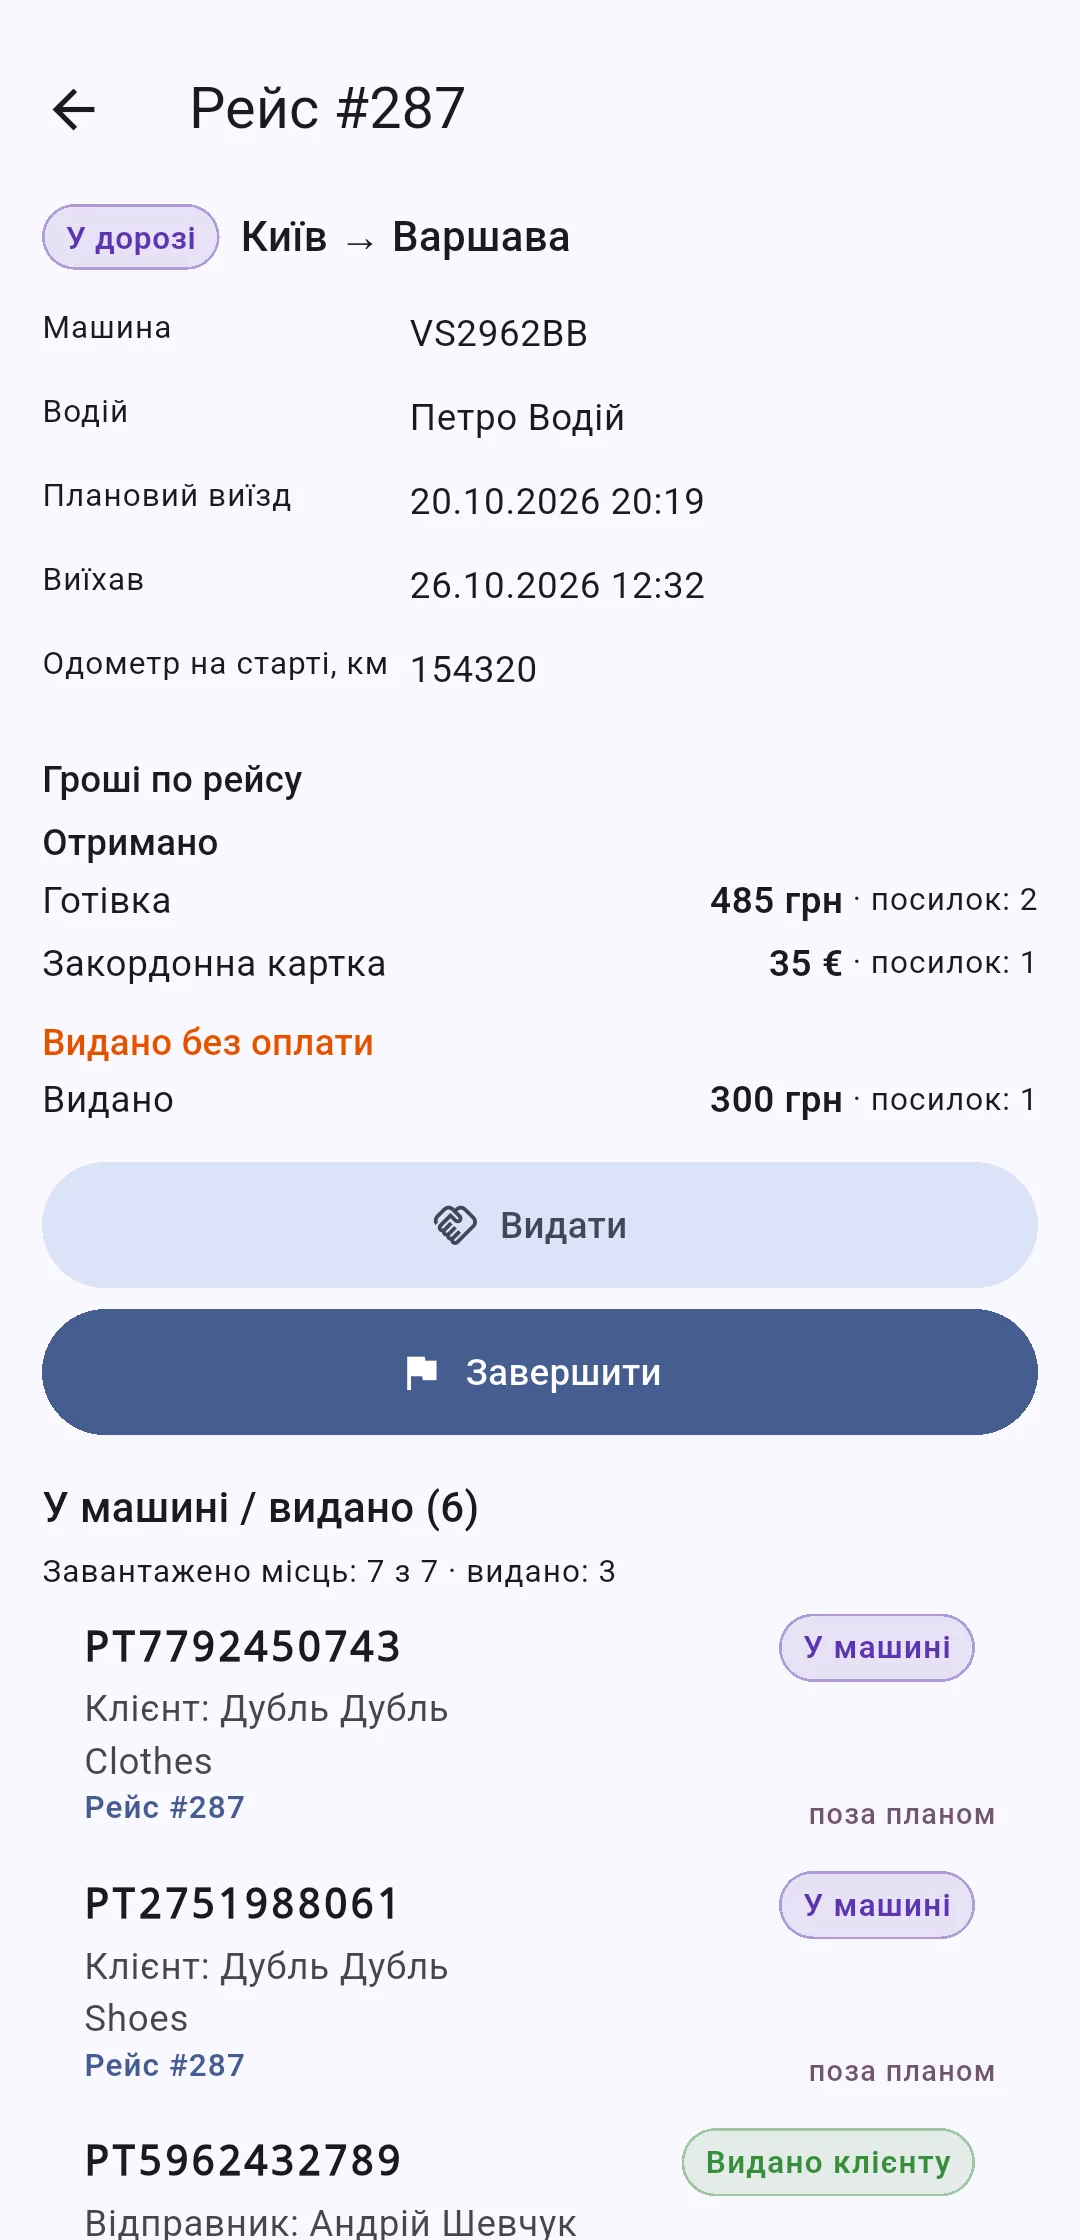
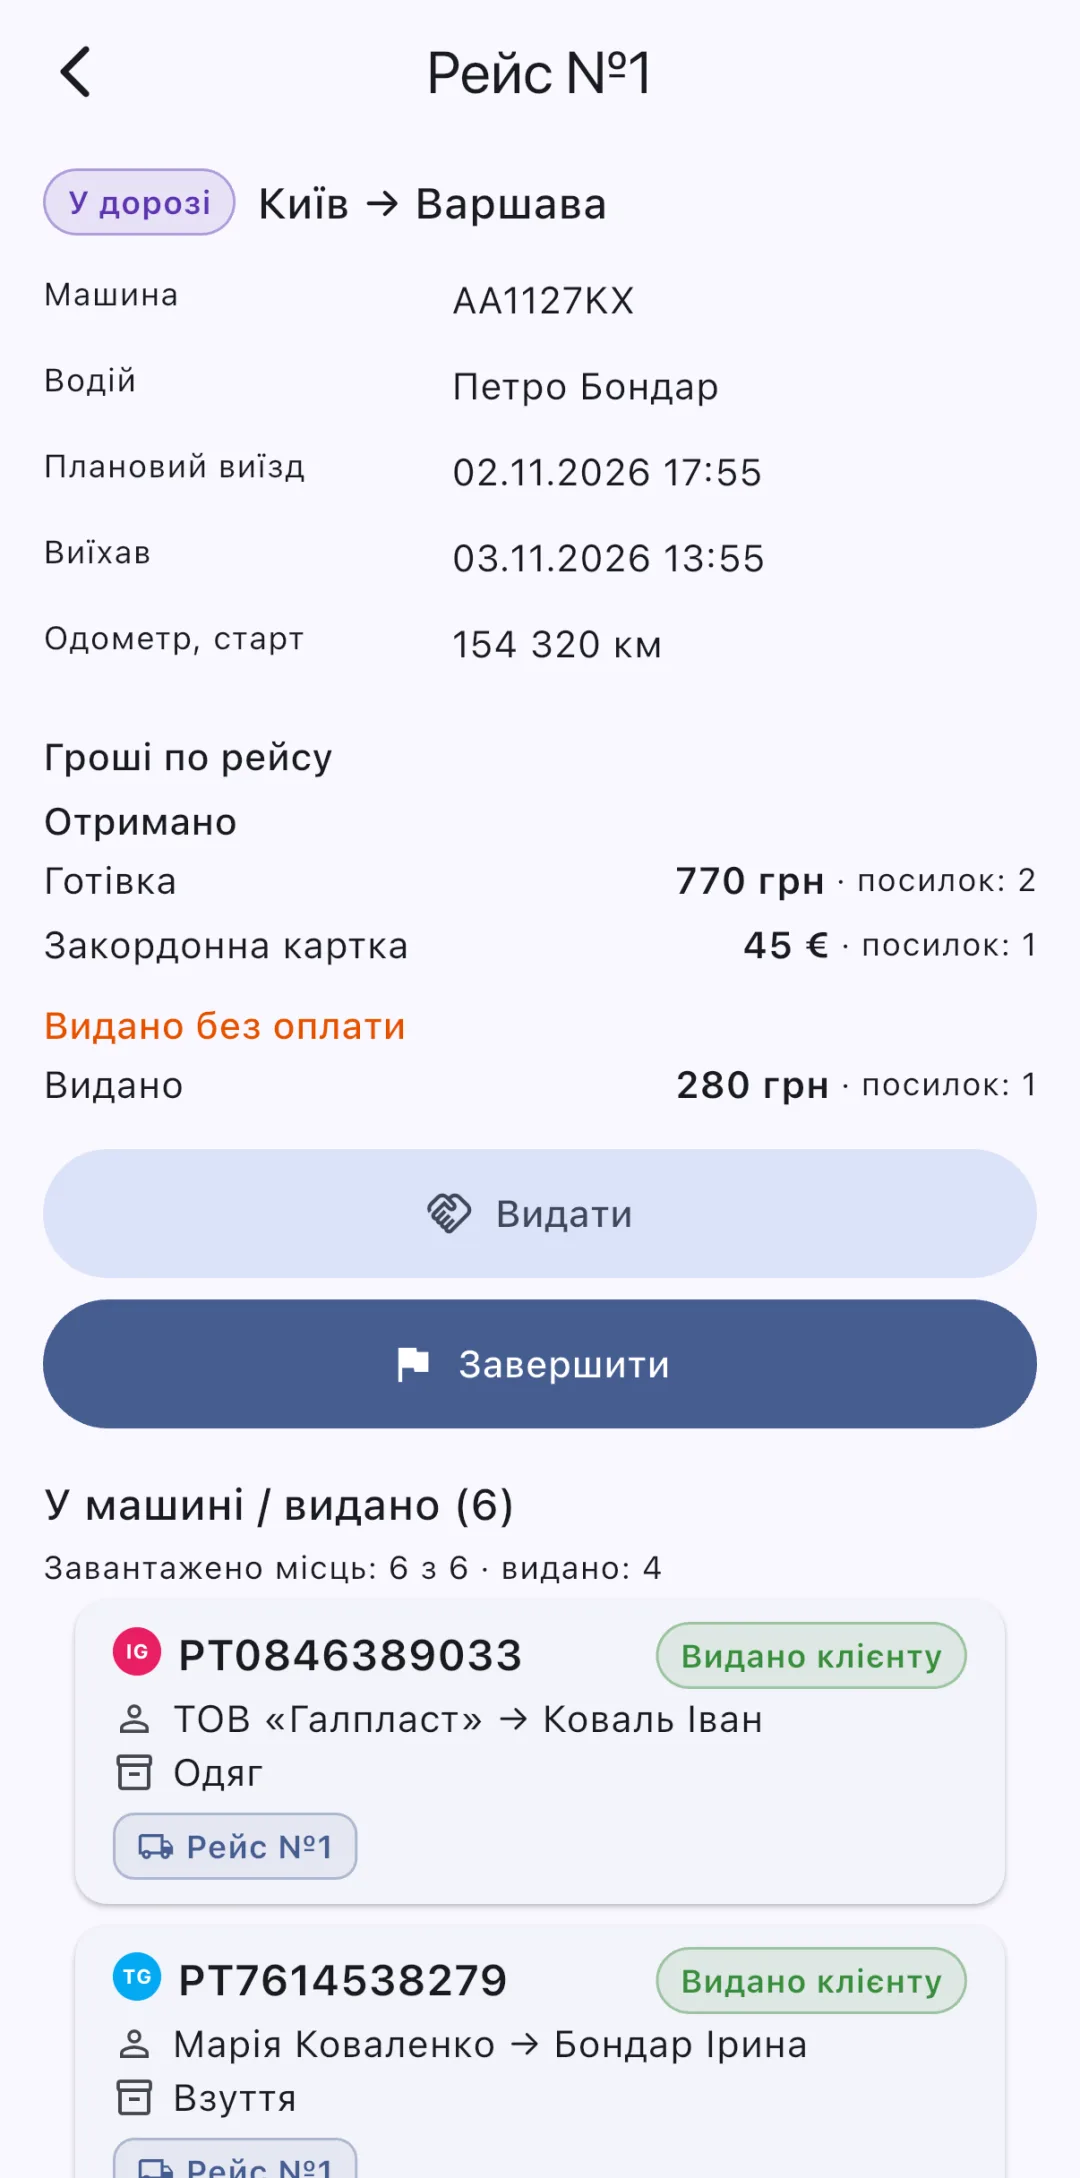
Landing screenshots in the new interface; names and phones stay on one line
- Hero web shot: the new parcels list (filters, statuses, trips, channels,
  payments); «Нова Пошта» phone: the new parcel cards with paid storage;
  «Водій у дорозі»: the trip card with its money and new cards. Taken on a
  local demo company.
- Parcels table: client and sender names and phones no longer wrap; NP
  status and payment columns rebalanced so the table still fits.

Claude-Session: https://claude.ai/code/session_01AkHvDSmn6p8TdbrULZgKDH

diff --git a/src/features/parcels/ParcelsTable.tsx b/src/features/parcels/ParcelsTable.tsx
@@ -138,7 +138,7 @@ export function ParcelsTable({
           {
             key: 'npState',
             header: t('parcels:fields.npState'),
-            className: 'min-w-32 max-w-40 whitespace-normal',
+            className: 'min-w-36 max-w-48 whitespace-normal',
             cell: (p: ParcelResponse) => {
               // The incoming waybill if there is one, otherwise our own outgoing one (return parcels).
               const source = npStateOf(p) ? p : p.npShipment && npStateOf(p.npShipment) ? p.npShipment : undefined
@@ -174,11 +174,11 @@ export function ParcelsTable({
             cell: (p: ParcelResponse) =>
               p.clientName || p.deliveryCity ? (
                 <div className="flex flex-col">
-                  <span className="inline-flex items-center gap-1.5">
+                  <span className="inline-flex items-center gap-1.5 whitespace-nowrap">
                     {p.channel && <ChannelBadge channel={p.channel} compact />}
                     {p.clientName ?? <span className="text-muted-foreground">{t('parcels:list.noClient')}</span>}
                   </span>
-                  {p.clientPhone && <span className="text-xs text-muted-foreground">{formatPhone(p.clientPhone)}</span>}
+                  {p.clientPhone && <span className="text-xs whitespace-nowrap text-muted-foreground">{formatPhone(p.clientPhone)}</span>}
                   {p.deliveryCity && <span className="text-xs text-muted-foreground">→ {p.deliveryCity}</span>}
                 </div>
               ) : (
@@ -189,12 +189,12 @@ export function ParcelsTable({
     {
       key: 'sender',
       header: t('parcels:fields.sender'),
-      className: 'min-w-24 max-w-36 whitespace-normal',
+      className: 'min-w-28 max-w-44 whitespace-normal',
       cell: (p) =>
         p.senderName || p.senderPhone || p.senderCity ? (
           <div className="flex flex-col">
-            {p.senderName && <span>{p.senderName}</span>}
-            {p.senderPhone && <span className="text-xs text-muted-foreground">{formatPhone(p.senderPhone)}</span>}
+            {p.senderName && <span className="whitespace-nowrap">{p.senderName}</span>}
+            {p.senderPhone && <span className="text-xs whitespace-nowrap text-muted-foreground">{formatPhone(p.senderPhone)}</span>}
             {p.senderCity && <span className="text-xs text-muted-foreground">{p.senderCity}</span>}
           </div>
         ) : (
@@ -234,6 +234,7 @@ export function ParcelsTable({
           {
             key: 'payment',
             header: t('parcels:payment.title'),
+            className: 'min-w-28 max-w-40 whitespace-normal',
             cell: (p: ParcelResponse) => (
               <div className="flex flex-col">
                 <span>{formatMoney(p.deliveryPrice, p.deliveryPriceCurrency)}</span>

diff --git a/README.md b/README.md
@@ -85,7 +85,8 @@ src/
                         «Потребують уточнення», «Платне зберігання», «Неоплачені» і «Знайдено N»; фільтри з поповера — чипами з ×
                         і «Скинути все»; таблиця (`ParcelsTable`, і в рейсі, і в клієнта):
                         «Посилка» — наш код або ТТН (ніколи «—»), ТТН/наша ЕН, місця; «Статус» — наш (рейс, склад); «Статус НП» — окремо, текст НП і час
-                        оновлення в підказці; «Нова Пошта» — дати й оплата НП разом; обидві колонки НП — лише коли в рядках є НП; «Створено» — дата (час у підказці); позначка «потребує уточнення» — біля
+                        оновлення в підказці; «Нова Пошта» — дати й оплата НП разом; обидві колонки НП — лише коли в рядках є НП; «Створено» — дата (час у підказці); імена й телефони
+                        клієнта й відправника не переносяться; позначка «потребує уточнення» — біля
                         правого краю «Посилки», в одну лінію для всіх рядків. Бічне меню вужче за стандартне (13rem, `SIDEBAR_WIDTH`)
                         редагування, ручний статус (зі складом), етикетки, відправка НП зворотних посилок (ЕН)
   features/clients/     список, створення, картка, форма, ClientPicker
